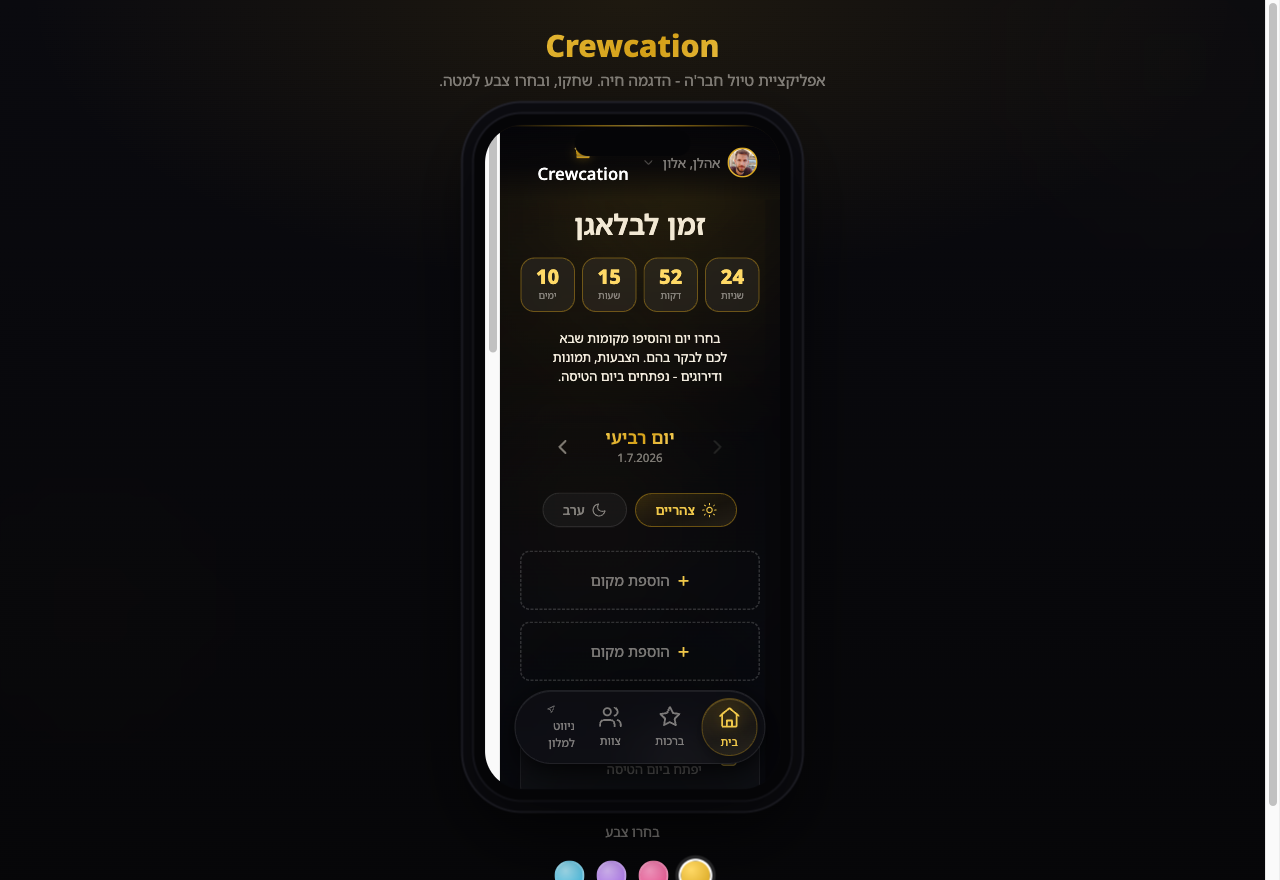
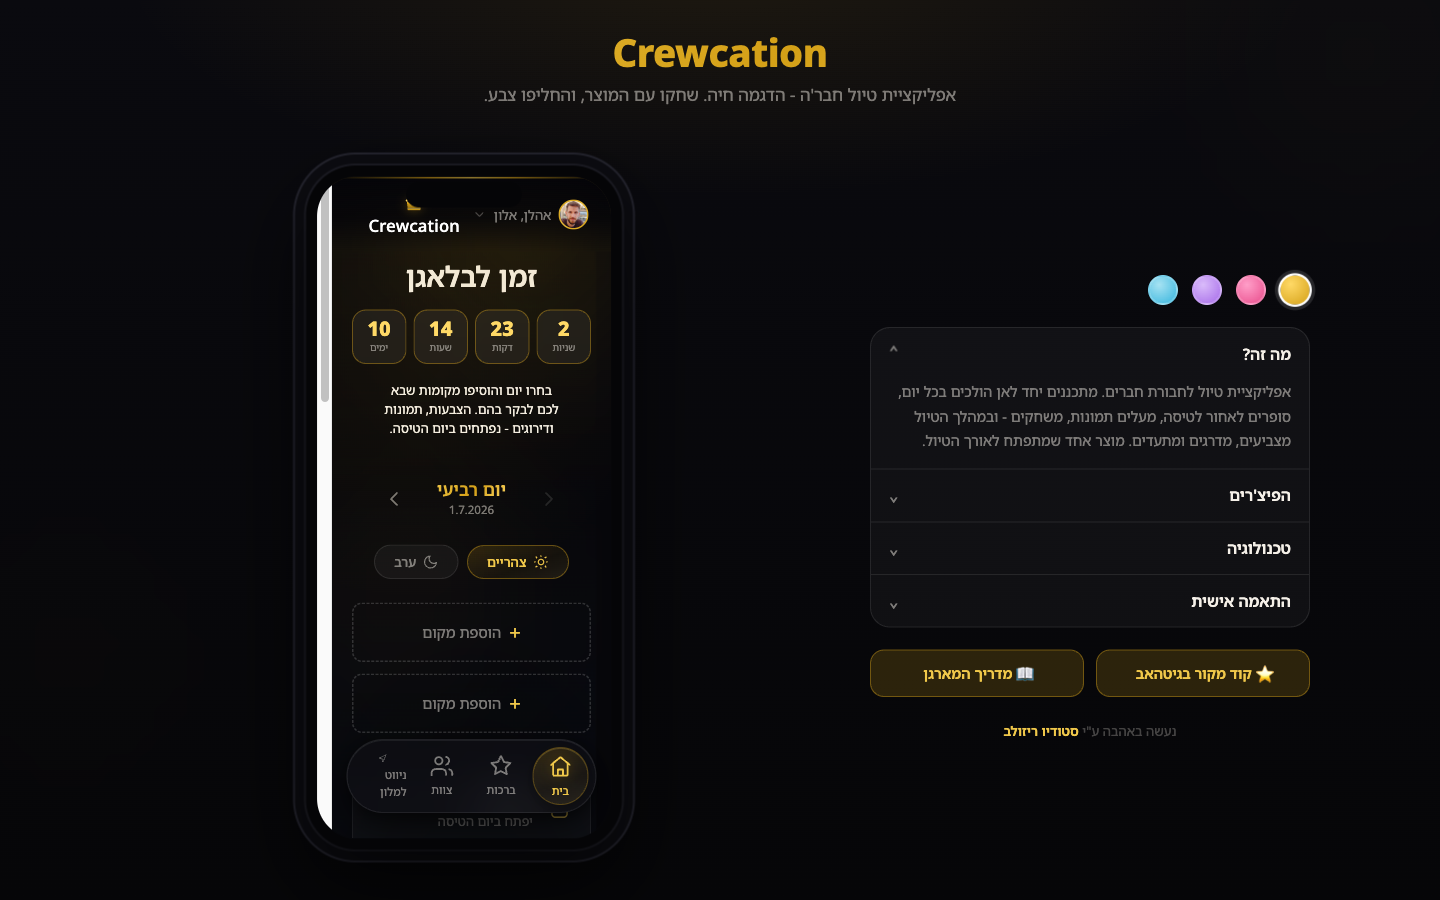
דמו בסגנון פלייגראונד - טלפון + פאנל הנחיות, רחב בלי סקרולר
- פריסת 2 עמודות (כמו פלייגראונד ספורט5): טלפון משמאל, פאנל מימין
- פאנל: נקודות צבע (בלי טקסט "בחרו צבע") + אקורדיונים (מה זה/פיצ'רים/
  טכנולוגיה/התאמה אישית) + לינקים (גיטהאב + מדריך מארגן) + קרדיט סטודיו
- מרווח מהכותרת, רוחב מלא, מתכווץ יפה למובייל (stack)

diff --git a/demo_showcase.php b/demo_showcase.php
@@ -1,5 +1,5 @@
 <?php
-// עמוד תצוגת דמו: האפליקציה בתוך מוקאפ טלפון + מחליף צבעים (כרום של הדמו, לא של המוצר)
+// עמוד תצוגת דמו (פלייגראונד): האפליקציה במוקאפ טלפון + פאנל הנחיות + מחליף צבעים
 declare(strict_types=1);
 ?>
 <!DOCTYPE html>
@@ -15,65 +15,131 @@ declare(strict_types=1);
     <link rel="stylesheet" href="assets/style.css?v=<?= filemtime(__DIR__ . '/assets/style.css') ?>">
     <style>
         html, body { margin: 0; height: 100%; }
-        .showcase {
-            min-height: 100vh; display: flex; flex-direction: column; align-items: center;
-            justify-content: center; gap: 22px; padding: 28px 16px 36px;
+        body { font-family: 'Noto Sans Hebrew', sans-serif; color: var(--text); }
+        .pg {
+            min-height: 100vh; box-sizing: border-box; padding: 30px clamp(20px, 5vw, 64px) 28px;
+            display: flex; flex-direction: column; gap: clamp(24px, 4vh, 48px);
             background:
-                radial-gradient(ellipse 80% 50% at 50% 0%, rgba(var(--accent-rgb), 0.10) 0%, transparent 60%),
+                radial-gradient(ellipse 70% 45% at 50% -5%, rgba(var(--accent-rgb), 0.10) 0%, transparent 60%),
                 linear-gradient(180deg, #0a0a0f 0%, #060608 100%);
-            font-family: 'Noto Sans Hebrew', sans-serif; color: var(--text);
             transition: background .4s ease;
         }
-        .sc-head { text-align: center; }
-        .sc-title {
-            font-size: 1.9rem; font-weight: 800; margin: 0;
-            background: var(--grad-gold-text); -webkit-background-clip: text;
-            background-clip: text; -webkit-text-fill-color: transparent;
+        .pg-head { text-align: center; }
+        .pg-title {
+            font-size: clamp(1.7rem, 3vw, 2.4rem); font-weight: 800; margin: 0; letter-spacing: -0.5px;
+            background: var(--grad-gold-text); -webkit-background-clip: text; background-clip: text; -webkit-text-fill-color: transparent;
         }
-        .sc-sub { color: var(--text-muted); font-size: .95rem; margin: 6px 0 0; }
+        .pg-sub { color: var(--text-muted); font-size: clamp(.9rem, 1.4vw, 1.05rem); margin: 8px 0 0; }
+
+        .pg-body {
+            flex: 1; display: grid; grid-template-columns: minmax(320px, 440px) 1fr;
+            gap: clamp(28px, 5vw, 72px); align-items: center; max-width: 1180px; width: 100%; margin: 0 auto;
+        }
+        .pg-stage { display: flex; justify-content: center; align-items: center; }
+
         /* מוקאפ טלפון */
         .phone {
-            height: min(800px, 78vh); aspect-ratio: 390 / 844; position: relative;
-            background: #050507; border-radius: 48px; padding: 11px;
-            box-shadow: 0 30px 70px rgba(0,0,0,.65), 0 0 0 2px #1c1c24, 0 0 0 11px #0c0c11,
-                        0 0 0 13px #23232c;
+            height: min(720px, 76vh); aspect-ratio: 390 / 844; position: relative;
+            background: #050507; border-radius: 50px; padding: 11px;
+            box-shadow: 0 36px 80px rgba(0,0,0,.7), 0 0 0 2px #1c1c24, 0 0 0 11px #0c0c11, 0 0 0 13px #24242e;
         }
-        .phone::before {
-            content: ''; position: absolute; top: 16px; left: 50%; transform: translateX(-50%);
-            width: 116px; height: 26px; background: #050507; border-radius: 16px; z-index: 3;
+        .phone::before { content: ''; position: absolute; top: 16px; left: 50%; transform: translateX(-50%);
+            width: 116px; height: 26px; background: #050507; border-radius: 16px; z-index: 3; }
+        .phone iframe { width: 100%; height: 100%; border: 0; border-radius: 40px; background: #06060a; display: block; }
+
+        /* פאנל */
+        .pg-panel { display: flex; flex-direction: column; gap: 22px; }
+        .swatches { display: flex; gap: 14px; }
+        .panel-card { background: rgba(255,255,255,0.035); border: 1px solid var(--border); border-radius: var(--radius-lg); overflow: hidden; }
+        .panel-card > details { border-bottom: 1px solid var(--border); }
+        .panel-card > details:last-child { border-bottom: 0; }
+        .panel-card summary {
+            list-style: none; cursor: pointer; padding: 14px 18px; font-weight: 600; font-size: .98rem;
+            display: flex; justify-content: space-between; align-items: center; transition: color .15s;
         }
-        .phone iframe { width: 100%; height: 100%; border: 0; border-radius: 38px; background: #06060a; display: block; }
-        /* מחליף הצבעים */
-        .sc-picker { text-align: center; }
-        .sc-picker .tp-label { font-size: .85rem; color: var(--text-muted); margin: 0 0 12px; }
-        .sc-made { font-size: .85rem; color: var(--text-subtle); margin: 4px 0 0; }
-        .sc-made a { color: var(--gold-light); text-decoration: none; font-weight: 600; }
-        .sc-made a:hover { text-decoration: underline; }
-        @media (max-width: 480px) { .phone { height: 72vh; } .sc-title { font-size: 1.6rem; } }
+        .panel-card summary::-webkit-details-marker { display: none; }
+        .panel-card summary:hover { color: var(--gold-light); }
+        .panel-card summary::after { content: '⌄'; color: var(--text-muted); transition: transform .2s; }
+        .panel-card details[open] summary::after { transform: rotate(180deg); }
+        .panel-card .acc-body { padding: 0 18px 16px; color: var(--text-muted); font-size: .9rem; line-height: 1.7; }
+        .acc-body ul { margin: 0; padding-inline-start: 18px; }
+        .acc-body li { margin: 3px 0; }
+        .pg-links { display: flex; gap: 12px; flex-wrap: wrap; }
+        .pg-link {
+            flex: 1; text-align: center; text-decoration: none; padding: 12px 14px; border-radius: var(--radius-md);
+            font-weight: 600; font-size: .9rem; border: 1px solid var(--border-gold); color: var(--gold-light);
+            background: var(--gold-dim); transition: background .15s, transform .1s; white-space: nowrap;
+        }
+        .pg-link:hover { background: var(--gold-glow-soft); }
+        .pg-link:active { transform: scale(.98); }
+        .pg-made { color: var(--text-subtle); font-size: .82rem; margin: 2px 0 0; text-align: center; }
+        .pg-made a { color: var(--gold-light); text-decoration: none; font-weight: 600; }
+
+        @media (max-width: 860px) {
+            .pg-body { grid-template-columns: 1fr; gap: 30px; }
+            .pg-panel { max-width: 460px; margin: 0 auto; width: 100%; }
+            .phone { height: 70vh; }
+        }
     </style>
 </head>
 <body>
-    <main class="showcase">
-        <div class="sc-head">
-            <h1 class="sc-title"><?= htmlspecialchars(APP_NAME) ?></h1>
-            <p class="sc-sub">אפליקציית טיול חבר'ה - הדגמה חיה. שחקו, ובחרו צבע למטה.</p>
-        </div>
+    <div class="pg">
+        <header class="pg-head">
+            <h1 class="pg-title"><?= htmlspecialchars(APP_NAME) ?></h1>
+            <p class="pg-sub">אפליקציית טיול חבר'ה - הדגמה חיה. שחקו עם המוצר, והחליפו צבע.</p>
+        </header>
 
-        <div class="phone">
-            <iframe id="appFrame" src="app.php" title="<?= htmlspecialchars(APP_NAME) ?>"></iframe>
-        </div>
+        <div class="pg-body">
+            <aside class="pg-panel">
+                <div class="swatches" id="themePicker">
+                    <button class="theme-dot t-gold active"   data-theme="gold"   aria-label="זהב"></button>
+                    <button class="theme-dot t-pink"          data-theme="pink"   aria-label="ורוד"></button>
+                    <button class="theme-dot t-purple"        data-theme="purple" aria-label="סגול"></button>
+                    <button class="theme-dot t-sky"           data-theme="sky"    aria-label="תכלת"></button>
+                </div>
 
-        <div class="sc-picker">
-            <p class="tp-label">בחרו צבע</p>
-            <div class="theme-picker" id="themePicker">
-                <button class="theme-dot t-gold active"   data-theme="gold"   aria-label="זהב"></button>
-                <button class="theme-dot t-pink"          data-theme="pink"   aria-label="ורוד"></button>
-                <button class="theme-dot t-purple"        data-theme="purple" aria-label="סגול"></button>
-                <button class="theme-dot t-sky"           data-theme="sky"    aria-label="תכלת"></button>
+                <div class="panel-card">
+                    <details open>
+                        <summary>מה זה?</summary>
+                        <div class="acc-body">אפליקציית טיול לחבורת חברים. מתכננים יחד לאן הולכים בכל יום, סופרים לאחור לטיסה, מעלים תמונות, משחקים - ובמהלך הטיול מצביעים, מדרגים ומתעדים. מוצר אחד שמתפתח לאורך הטיול.</div>
+                    </details>
+                    <details>
+                        <summary>הפיצ'רים</summary>
+                        <div class="acc-body"><ul>
+                            <li>ספירה לאחור לטיסה</li>
+                            <li>שיתוף מקומות לכל יום (צהריים + ערב)</li>
+                            <li>4 משחקים עם שיאנים</li>
+                            <li>גלריית תמונות ודירוג יומי</li>
+                            <li>רשימת "לא לשכוח" משותפת</li>
+                            <li>כרטיסי שחקן עם תגיות לעריכה</li>
+                            <li>PWA - מותקן למסך הבית</li>
+                        </ul></div>
+                    </details>
+                    <details>
+                        <summary>טכנולוגיה</summary>
+                        <div class="acc-body">PHP 8 + SQLite, בלי פריימוורק, וניל JS. RTL, מובייל-פירסט. כל המוצר - מחקר חוויה, עיצוב וקוד - נבנה מפרומפטים בלבד. אפס נגיעה בפיגמה.</div>
+                    </details>
+                    <details>
+                        <summary>התאמה אישית</summary>
+                        <div class="acc-body">שם האפליקציה, הצוות, התאריכים, הצבע, וכל טקסט - הכל בקובץ <code>config.php</code> ובמקור. יש מדריך מארגן מלא עם פרומפט AI שכותב את כל הקופי בשפה ובהומור של החבורה שלכם.</div>
+                    </details>
+                </div>
+
+                <div class="pg-links">
+                    <a class="pg-link" href="https://github.com/guy273/crewcation" target="_blank" rel="noopener">⭐ קוד מקור בגיטהאב</a>
+                    <a class="pg-link" href="https://github.com/guy273/crewcation/blob/main/docs/ORGANIZER-GUIDE.md" target="_blank" rel="noopener">📖 מדריך המארגן</a>
+                </div>
+
+                <p class="pg-made">נעשה באהבה ע"י <a href="https://resolve.co.il" target="_blank" rel="noopener">סטודיו ריזולב</a></p>
+            </aside>
+
+            <div class="pg-stage">
+                <div class="phone">
+                    <iframe id="appFrame" src="app.php" title="<?= htmlspecialchars(APP_NAME) ?>"></iframe>
+                </div>
             </div>
-            <p class="sc-made">נעשה באהבה ע"י <a href="https://resolve.co.il" target="_blank" rel="noopener">סטודיו ריזולב</a></p>
         </div>
-    </main>
+    </div>
 
     <script>
     (function () {
@@ -83,16 +149,10 @@ declare(strict_types=1);
         var cur = 'gold';
         try { cur = localStorage.getItem('cw-theme') || 'gold'; } catch (e) {}
 
-        function paintRoot(t) {
-            if (t && t !== 'gold') document.documentElement.dataset.theme = t;
-            else delete document.documentElement.dataset.theme;
-        }
+        function paintRoot(t) { if (t && t !== 'gold') document.documentElement.dataset.theme = t; else delete document.documentElement.dataset.theme; }
         function paintFrame(t) {
-            try {
-                var doc = frame.contentDocument;
-                if (!doc || !doc.documentElement) return;
-                if (t && t !== 'gold') doc.documentElement.dataset.theme = t;
-                else delete doc.documentElement.dataset.theme;
+            try { var doc = frame.contentDocument; if (!doc || !doc.documentElement) return;
+                if (t && t !== 'gold') doc.documentElement.dataset.theme = t; else delete doc.documentElement.dataset.theme;
             } catch (e) {}
         }
         function apply(t) {
@@ -100,14 +160,9 @@ declare(strict_types=1);
             paintRoot(t); paintFrame(t);
             dots.forEach(function (d) { d.classList.toggle('active', d.dataset.theme === t); });
         }
-
         apply(cur);
-        // ודא שהתמה מוחלת גם כשהאייפריים מסיים לטעון / מנווט פנימה
         frame.addEventListener('load', function () { paintFrame(localStorage.getItem('cw-theme') || 'gold'); });
-        pick.addEventListener('click', function (e) {
-            var d = e.target.closest('.theme-dot');
-            if (d) apply(d.dataset.theme);
-        });
+        pick.addEventListener('click', function (e) { var d = e.target.closest('.theme-dot'); if (d) apply(d.dataset.theme); });
     })();
     </script>
 </body>